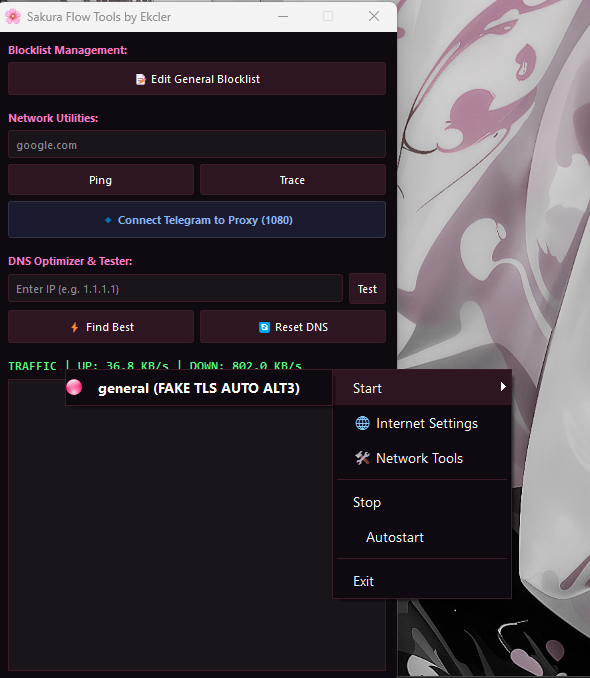
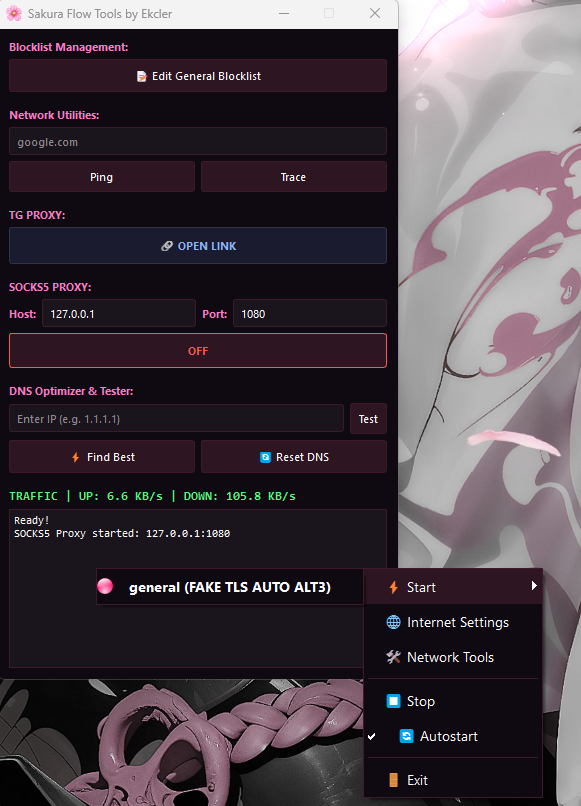
update interface screenshot and sync state/tools changes

diff --git a/src/tools.py b/src/tools.py
@@ -1,31 +1,54 @@
 import subprocess
 import psutil
+import socket
+import threading
+import time
+import logging
 from pathlib import Path
 from ping3 import ping
 
 try:
     from .config import BASE_DIR, ENCODING
+    from . import state
 except ImportError:
     from src.config import BASE_DIR, ENCODING
+    from src import state
 
 _last_io = None
 LIST_PATH = BASE_DIR / "zapret" / "lists" / "list-general.txt"
+EXCLUDE_LIST_PATH = BASE_DIR / "zapret" / "lists" / "list-exclude.txt"
+
+_saved_state = state.load_state()
+AUTO_ADD_ENABLED = _saved_state.get("auto_add_enabled", False)
+SOCKS5_ENABLED = _saved_state.get("socks5_enabled", False)
+
+_failed_domains = set()
+_monitor_thread = None
+_monitor_running = False
+
 
 def get_ping(host):
-    """Проверка задержки."""
     try:
         p = ping(host, unit='ms')
-        return round(p, 2) if p else "Timeout"
-    except: return "Error"
+        if p:
+            return round(p, 2)
+        else:
+            return 'Timeout'
+    except:
+        return 'Error'
+
 
 def run_tracert(host):
-    """Трассировка маршрута."""
     subprocess.Popen(['cmd', '/c', f'tracert {host} & pause'], creationflags=subprocess.CREATE_NEW_CONSOLE)
 
+
 def get_traffic_stats():
-    """Считает скорость сети (КБ/с)."""
     global _last_io
     try:
+        from src.service import service_exists
+        if not service_exists():
+            return 0.0, 0.0
+        
         net_io = psutil.net_io_counters()
         now_io = (net_io.bytes_sent, net_io.bytes_recv)
         if _last_io is None:
@@ -34,57 +57,190 @@ def get_traffic_stats():
         up = (now_io[0] - _last_io[0]) / 1024
         down = (now_io[1] - _last_io[1]) / 1024
         _last_io = now_io
-        return max(0.0, round(up, 1)), max(0.0, round(down, 1))
-    except: return 0.0, 0.0
+        return max(0, round(up, 1)), max(0, round(down, 1))
+    except:
+        return 0.0, 0.0
 
-# --- РАБОТА СО СПИСКОМ ---
+
 def read_blocklist():
-    """Читает list-general.txt."""
     try:
-        if not LIST_PATH.exists(): return ""
+        if not LIST_PATH.exists():
+            return ""
         return LIST_PATH.read_text(encoding=ENCODING)
-    except: return ""
+    except:
+        return ""
+
 
 def save_blocklist(text):
-    """Сохраняет list-general.txt."""
     try:
         LIST_PATH.parent.mkdir(parents=True, exist_ok=True)
         LIST_PATH.write_text(text.strip(), encoding=ENCODING)
         return True
-    except: return False
+    except:
+        return False
 
-# --- DNS LOGIC ---
+
 def find_best_dns():
     dns_list = {"Cloudflare": "1.1.1.1", "Google": "8.8.8.8", "Yandex": "77.88.8.8", "Quad9": "9.9.9.9"}
     results = {}
     for name, ip in dns_list.items():
         p = get_ping(ip)
-        if isinstance(p, (float, int)): results[name] = (ip, p)
-    if not results: return None, "All DNS timed out"
+        if isinstance(p, (float, int)):
+            results[name] = (ip, p)
+    if not results:
+        return None, "All DNS timed out"
     best_name = min(results, key=lambda k: results[k][1])
     return results[best_name][0], f"{best_name} [{results[best_name][0]}] ({results[best_name][1]}ms)"
+
 
 def get_active_interface():
     try:
         for name, stats in psutil.net_if_stats().items():
             if stats.isup and not name.startswith("Loopback"):
                 addrs = psutil.net_if_addrs().get(name, [])
-                if any(a.family == 2 and not a.address.startswith("127.") for a in addrs): return name
-    except: pass
+                if any(a.family == 2 and not a.address.startswith("127.") for a in addrs):
+                    return name
+    except:
+        pass
     return None
+
 
 def set_system_dns(dns_ip):
     iface = get_active_interface()
-    if not iface: return False, "Interface not found"
+    if not iface:
+        return False, "Interface not found"
     try:
         subprocess.run(f'netsh interface ip set dns name="{iface}" source=static address={dns_ip}', shell=True, capture_output=True)
         return True, iface
-    except Exception as e: return False, str(e)
+    except Exception as e:
+        return False, str(e)
+
 
 def reset_system_dns():
     iface = get_active_interface()
-    if not iface: return False, "Interface not found"
+    if not iface:
+        return False, "Interface not found"
     try:
         subprocess.run(f'netsh interface ip set dns name="{iface}" source=dhcp', shell=True, capture_output=True)
         return True, iface
-    except Exception as e: return False, str(e)
+    except Exception as e:
+        return False, str(e)
+
+
+def read_general_list():
+    try:
+        if not LIST_PATH.exists():
+            return set()
+        content = LIST_PATH.read_text(encoding=ENCODING)
+        domains = set(line.strip().lower() for line in content.strip().split('\n') if line.strip())
+        return domains
+    except:
+        return set()
+
+
+def add_to_general(domain):
+    try:
+        domain = domain.lower().strip()
+        domain = domain.replace("https://", "").replace("http://", "").split('/')[0]
+        current = read_general_list()
+        if domain in current:
+            return False, "Already in list"
+        current.add(domain)
+        LIST_PATH.write_text('\n'.join(sorted(current)) + '\n', encoding=ENCODING)
+        logging.info(f"[AUTO-ADD] Added {domain} to general list")
+        return True, domain
+    except Exception as e:
+        logging.error(f"[AUTO-ADD] Error: {e}")
+        return False, str(e)
+
+
+def is_in_general(domain):
+    domain = domain.lower().strip().replace("https://", "").replace("http://", "").split('/')[0]
+    return domain in read_general_list()
+
+
+def check_domain_accessible(domain):
+    try:
+        socket.setdefaulttimeout(3)
+        socket.socket(socket.AF_INET, socket.SOCK_STREAM).connect((domain, 443))
+        return True
+    except:
+        try:
+            socket.gethostbyname(domain)
+            return True
+        except:
+            return False
+
+
+def test_failed_domain(domain):
+    if is_in_general(domain):
+        return None
+    if not check_domain_accessible(domain):
+        success, result = add_to_general(domain)
+        if success:
+            return domain
+    return None
+
+
+def start_auto_monitor(callback=None):
+    global _monitor_thread, _monitor_running
+    
+    if _monitor_running:
+        return
+    
+    _monitor_running = True
+    
+    def monitor():
+        while _monitor_running:
+            time.sleep(30)
+            if not AUTO_ADD_ENABLED:
+                continue
+            
+            current_dns = []
+            try:
+                proc = subprocess.run('ipconfig /displaydns', capture_output=True, text=True, shell=True)
+                lines = proc.stdout.split('\n')
+                for line in lines:
+                    if 'Record Name' in line:
+                        name = line.split(':')[1].strip().lower()
+                        if '.' in name and not name.startswith('.'):
+                            current_dns.append(name)
+            except:
+                pass
+            
+            for domain in current_dns:
+                if domain not in _failed_domains:
+                    result = test_failed_domain(domain)
+                    if result and callback:
+                        callback(result)
+    
+    _monitor_thread = threading.Thread(target=monitor, daemon=True)
+    _monitor_thread.start()
+    logging.info("[AUTO-MONITOR] Started")
+
+
+def stop_auto_monitor():
+    global _monitor_running
+    _monitor_running = False
+    logging.info("[AUTO-MONITOR] Stopped")
+
+
+def set_auto_add_enabled(enabled):
+    global AUTO_ADD_ENABLED
+    AUTO_ADD_ENABLED = enabled
+    state.save_state(auto_add_enabled=enabled)
+    logging.info(f"[AUTO-MONITOR] Enabled: {enabled}")
+
+
+def set_socks5_enabled(enabled):
+    global SOCKS5_ENABLED
+    SOCKS5_ENABLED = enabled
+    state.save_state(socks5_enabled=enabled)
+    logging.info(f"[SOCKS5] Enabled: {enabled}")
+
+
+if AUTO_ADD_ENABLED:
+    def _delayed_start():
+        time.sleep(2)
+        start_auto_monitor()
+    threading.Thread(target=_delayed_start, daemon=True).start()

diff --git a/src/state.py b/src/state.py
@@ -2,17 +2,22 @@
 import json
 import logging
 
-# Handle both relative and absolute imports
 try:
     from .config import STATE_FILE
 except ImportError:
     from src.config import STATE_FILE
 
 
-def save_state(last_bat=None, stopped=False):
+def save_state(last_bat=None, stopped=None, auto_add_enabled=None, socks5_enabled=None):
     """Save application state to file."""
     try:
-        data = {"last_bat": last_bat, "stopped": stopped}
+        existing = load_state()
+        data = {
+            "last_bat": last_bat if last_bat is not None else existing.get("last_bat"),
+            "stopped": stopped if stopped is not None else existing.get("stopped", True),
+            "auto_add_enabled": auto_add_enabled if auto_add_enabled is not None else existing.get("auto_add_enabled", False),
+            "socks5_enabled": socks5_enabled if socks5_enabled is not None else existing.get("socks5_enabled", False)
+        }
         with open(STATE_FILE, "w", encoding="utf-8") as f:
             json.dump(data, f)
         logging.info(f"Сохранено состояние: {data}")
@@ -27,8 +32,12 @@ def load_state():
             with open(STATE_FILE, "r", encoding="utf-8") as f:
                 data = json.load(f)
             logging.info(f"Загружено состояние: {data}")
-            return data
+            return {
+                "last_bat": data.get("last_bat"),
+                "stopped": data.get("stopped", True),
+                "auto_add_enabled": data.get("auto_add_enabled", False),
+                "socks5_enabled": data.get("socks5_enabled", False)
+            }
     except Exception as e:
         logging.error(f"Ошибка при загрузке состояния: {e}")
-    return {"last_bat": None, "stopped": True}
-
+    return {"last_bat": None, "stopped": True, "auto_add_enabled": False, "socks5_enabled": False}
